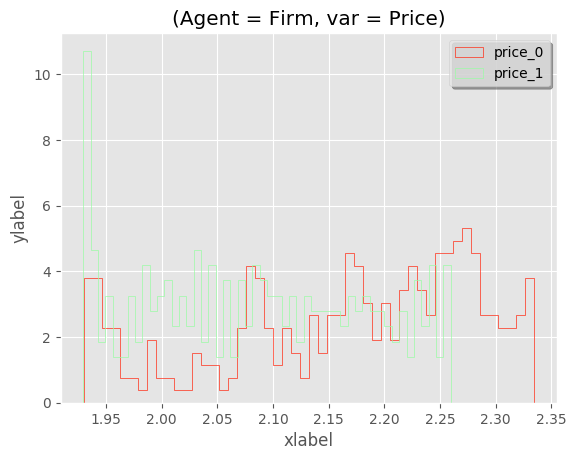
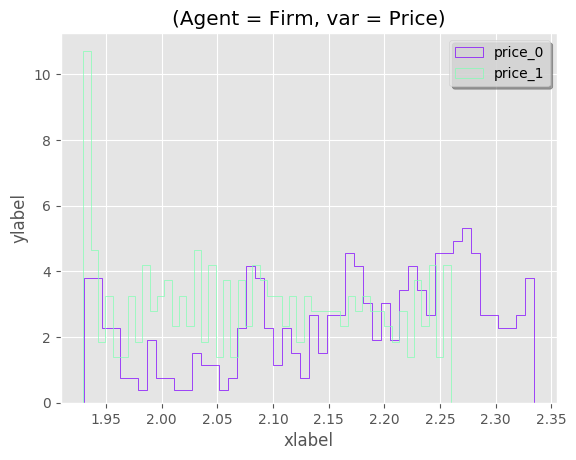
Fixed random colored plots

diff --git a/src/visualisation_scripts/plots.py b/src/visualisation_scripts/plots.py
@@ -105,17 +105,15 @@ class Timeseries(A):
                         for l in range(0, len(D), self.__N):
                             y.append(np.array(D[l:l+self.__N]))
                         x = np.arange(1, self.__N+1)
+                        # edit colormap here
                         #colors = iter(cm.rainbow(np.random.uniform(0, 1, size = len(D)//self.__N)))
-                        #colors = iter(cm.rainbow(np.array([i/len(minor_index)])))
                         size = len(D)//self.__N
                         a = np.empty(shape=size,)
                         for s in range(size):
                             a[s] = i/len(minor_index)
-                        print("First a: ", a)
-                        print(np.random.uniform(0, 1, size = len(D)//self.__N))
+                        #print("First a: ", a)
+                        #print(np.random.uniform(0, 1, size = len(D)//self.__N))
                         colors = iter(cm.rainbow(a))
-
-
                         for r in range(0, len(y)):
                             clr = next(colors)
                             self.plot_line(ax, x, y[r], legend_label[0]+'_run_'+str(r)+str(m),clr)
@@ -135,17 +133,15 @@ class Timeseries(A):
                         y2.append(np.array(col_B[i:i+self.__N]))
 
                     x = np.arange(1, self.__N+1)
-                    #colors = iter(cm.rainbow(np.random.uniform(0, 1, size = len(dframe)//self.__N)))
-
                     # edit colormap here
+                    #colors = iter(cm.rainbow(np.random.uniform(0, 1, size = len(dframe)//self.__N)))
                     size = len(dframe)//self.__N
                     a = np.empty(shape=size,)
                     for s in range(size):
                         a[s] = s/size
-                    print("Second a: ", a)
-                    print(np.random.uniform(0, 1, size = len(dframe)//self.__N))
+                    #print("Second a: ", a)
+                    #print(np.random.uniform(0, 1, size = len(dframe)//self.__N))
                     colors = iter(cm.rainbow(a))
-
 
                     for r in range(0, len(dframe)//self.__N):
                         clr = next(colors)
@@ -162,15 +158,14 @@ class Timeseries(A):
                     col_A = dframe[dframe.columns[0]]
                     for i in range(0, len(dframe), self.__N):
                         y1.append(np.array(col_A[i:i+self.__N]))
-                    #colors = iter(cm.rainbow(np.random.uniform(0, 1, size = len(dframe)//self.__N)))
-
                     # edit colormap here
+                    #colors = iter(cm.rainbow(np.random.uniform(0, 1, size = len(dframe)//self.__N)))
                     size = len(dframe)//self.__N
                     a = np.empty(shape=size,)
                     for s in range(size):
                         a[s] = s/size
-                    print("Third a: ", a)
-                    print(np.random.uniform(0, 1, size = len(dframe)//self.__N))
+                    #print("Third a: ", a)
+                    #print(np.random.uniform(0, 1, size = len(dframe)//self.__N))
                     colors = iter(cm.rainbow(a))
 
                     for r in range(0, len(dframe)//self.__N):
@@ -309,7 +304,7 @@ class Histogram():
             if self.__analysistype == A.agent:
                 minor_index = dframe.index.get_level_values('minor').unique()
                 fig, ax = plt.subplots()
-                for m in minor_index:
+                for i, m in enumerate(minor_index):
                     D = dframe.xs(int(m), level='minor')
                     if len(D.columns) == 2:  # TODO: this check done in class constructor, so no need
                         print("Quantile not possible for agent level analysis!")
@@ -318,10 +313,13 @@ class Histogram():
                         y = []
                         for l in range(0, len(D), self.__N):
                             y.append(np.array(D[l:l+self.__N]))
-                        colors = iter(cm.rainbow(np.random.uniform(0, 1, size = len(dframe)/self.__N)))
-
                         # edit colormap here
-
+                        #colors = iter(cm.rainbow(np.random.uniform(0, 1, size = len(dframe)/self.__N)))
+                        size = len(dframe)//self.__N
+                        a = np.empty(shape=size,)
+                        for s in range(size):
+                            a[s] = i/len(minor_index)
+                        colors = iter(cm.rainbow(a))
 
                         for r in range(0, len(y)):
                             clr = next(colors)
@@ -342,10 +340,13 @@ class Histogram():
                         for i in range(0, len(dframe), self.__N):
                             y1.append(np.array(col_A[i:i+self.__N]))
                             y2.append(np.array(col_B[i:i+self.__N]))
-                        colors = iter(cm.rainbow(np.random.uniform(0, 1, size = 4*len(dframe)/self.__N)))
-
                         # edit colormap here
-
+                        #colors = iter(cm.rainbow(np.random.uniform(0, 1, size = 4*len(dframe)/self.__N)))
+                        size = 4*len(dframe)/self.__N
+                        a = np.empty(shape=size,)
+                        for s in range(size):
+                            a[s] = s/size
+                        colors = iter(cm.rainbow(a))
 
                         for r in range(0, len(y1)): # TODO: y1 and y2 length must not be different, add a check
                             clr = next(colors)
@@ -360,10 +361,13 @@ class Histogram():
                         col_A = dframe[dframe.columns[0]]
                         for i in range(0, len(dframe), self.__N):
                             y1.append(np.array(col_A[i:i+self.__N]))
-                        colors = iter(cm.rainbow(np.random.uniform(0, 1, size = len(dframe)//self.__N)))
-
                         # edit colormap here
-
+                        #colors = iter(cm.rainbow(np.random.uniform(0, 1, size = len(dframe)//self.__N)))
+                        size = len(dframe)//self.__N
+                        a = np.empty(shape=size,)
+                        for s in range(size):
+                            a[s] = s/size
+                        colors = iter(cm.rainbow(a))
 
                         for r in range(0, len(dframe)//self.__N):
                             clr = next(colors)
@@ -378,10 +382,13 @@ class Histogram():
                     if len(dframe.columns) == 2:   ################TODO: two option not needed because when summary full, no sustom quantile possible
                         col_A = dframe[dframe.columns[0]]
                         col_B = dframe[dframe.columns[1]]
-                        colors = iter(cm.rainbow(np.random.uniform(0, 1, size = 4)))
-
                         # edit colormap here
-
+                        #colors = iter(cm.rainbow(np.random.uniform(0, 1, size = 4)))
+                        size = 4
+                        a = np.empty(shape=size,)
+                        for s in range(size):
+                            a[s] = s/size
+                        colors = iter(cm.rainbow(a))
 
                         clr = next(colors)
                         self.plot_histogram(ax, col_A, legend_label[0], clr, self.__P.bins(self.idx))
@@ -392,10 +399,10 @@ class Histogram():
                         plt.close()
                     else:
                         col_A = dframe[dframe.columns[0]]
-                        colors = iter(cm.rainbow(np.random.uniform(0, 1, size = 1)))
+                        #colors = iter(cm.rainbow(np.random.uniform(0, 1, size = 1)))
 
                         # edit colormap here
-
+                        colors = iter(cm.rainbow(np.array([0.0]))) #0.0:blue 1.0:red
 
                         clr = next(colors)
                         self.plot_histogram(ax, col_A, legend_label[0], clr, self.__P.bins(self.idx))
@@ -433,10 +440,13 @@ class Histogram():
                         sys.exit(1)
                     else:
                         count = 0
-                        colors = iter(cm.rainbow(np.random.uniform(0, 1, size = len(dframe)//self.__N)))
-
                         # edit colormap here
-
+                        #colors = iter(cm.rainbow(np.random.uniform(0, 1, size = len(dframe)//self.__N)))
+                        size = len(dframe)//self.__N
+                        a = np.empty(shape=size,)
+                        for s in range(size):
+                            a[s] = s/size
+                        colors = iter(cm.rainbow(a))
 
                         for r in range(0,len(D),self.__N):
                             fig, ax = plt.subplots()
@@ -457,11 +467,13 @@ class Histogram():
                     for i in range(0, len(dframe), self.__N):
                         y1.append(np.array(col_A[i:i+self.__N]))
                         y2.append(np.array(col_B[i:i+self.__N]))
-
-                    colors = iter(cm.rainbow(np.random.uniform(0, 1, size = 4*len(dframe)//self.__N)))
-
                     # edit colormap here
-
+                    #colors = iter(cm.rainbow(np.random.uniform(0, 1, size = 4*len(dframe)//self.__N)))
+                    size = 4*len(dframe)//self.__N
+                    a = np.empty(shape=size,)
+                    for s in range(size):
+                        a[s] = s/size
+                    colors = iter(cm.rainbow(a))
 
                     for r in range(0, len(dframe)//self.__N):
                         fig, ax = plt.subplots()
@@ -477,10 +489,14 @@ class Histogram():
                     y =[]
                     for i in range(0,len(dframe),self.__N):
                         y.append(np.array(dframe[i:i+self.__N]))
-                    colors = iter(cm.rainbow(np.random.uniform(0, 1, size = len(dframe)/self.__N)))
 
                     # edit colormap here
-
+                    #colors = iter(cm.rainbow(np.random.uniform(0, 1, size = len(dframe)/self.__N)))
+                    size = len(dframe)/self.__N
+                    a = np.empty(shape=size,)
+                    for s in range(size):
+                        a[s] = s/size
+                    colors = iter(cm.rainbow(a))
 
                     for s in range(0, len(dframe)//self.__N):
                         fig, ax = plt.subplots()
@@ -553,11 +569,9 @@ class Scatterplot(A):
             if self.__analysistype == A.agent:
                 minor_index = dframe.index.get_level_values('minor').unique()
                 fig, ax = plt.subplots() # initialize figure
-                colors = iter(cm.rainbow(np.linspace(0, 1, len(dframe)//self.__N)))
 
                 # edit colormap here
-
-
+                colors = iter(cm.rainbow(np.linspace(0, 1, len(dframe)//self.__N)))
 
                 for m in minor_index:
                     D = dframe.xs(int(m), level='minor')
@@ -593,10 +607,9 @@ class Scatterplot(A):
                     for i in range(0, len(dframe), self.__N):
                         y1.append(np.array(col_A[i:i+self.__N]))
                         y2.append(np.array(col_B[i:i+self.__N]))
-                    colors = iter(cm.rainbow(np.linspace(0, 1, len(y1))))
 
                     # edit colormap here
-
+                    colors = iter(cm.rainbow(np.linspace(0, 1, len(y1))))
 
                     for r in range(0, len(dframe)//self.__N):
                         clr = next(colors)
@@ -612,10 +625,9 @@ class Scatterplot(A):
                         sys.exit (1)
                     col_A = dframe[dframe.columns[0]]
                     col_B = dframe[dframe.columns[1]]
-                    colors = iter(cm.rainbow(np.linspace(0, 1, 1)))
 
                     # edit colormap here
-
+                    colors = iter(cm.rainbow(np.linspace(0, 1, 1)))
 
                     clr = next(colors)
                     self.plot_scatterplot(ax, col_A, col_B, legend_label[0]+' vs '+legend_label[1], legend_label[0], legend_label[1], clr)
@@ -635,10 +647,9 @@ class Scatterplot(A):
 
             if self.__analysistype == A.agent:
                 minor_index = dframe.index.get_level_values('minor').unique()
-                colors = iter(cm.rainbow(np.linspace(0, 1, len(dframe)//self.__N)))
 
                 # edit colormap here
-
+                colors = iter(cm.rainbow(np.linspace(0, 1, len(dframe)//self.__N)))
 
                 for m in minor_index:
                     D = dframe.xs(int(m), level='minor')
@@ -672,10 +683,9 @@ class Scatterplot(A):
                 for i in range(0, len(dframe), self.__N):
                     y1.append(np.array(col_A[i:i+self.__N]))
                     y2.append(np.array(col_B[i:i+self.__N]))
-                colors = iter(cm.rainbow(np.linspace(0, 1, len(y1))))
 
                 # edit colormap here
-
+                colors = iter(cm.rainbow(np.linspace(0, 1, len(y1))))
 
                 for r in range(0, len(dframe)//self.__N):
                     fig, ax = plt.subplots()
@@ -756,39 +766,39 @@ class Boxplot(A):
         for col in range(0, len(self.__data.columns)):
             dframe = pd.DataFrame(self.__data[self.__data.columns[col]])
             fig, ax = plt.subplots()
-            if self.__analysistype == A.agent: # check done above, redundant, to remove
-                print("Boxplot not possible for agent-level analysis!")
-                sys.exit(1)
-            else:
-                col_A = dframe[dframe.columns[0]]
-                D = self.process_boxplot_data(col_A)
-                y = []
-                for i in range(0, len(D), self.__N):
-                    y.append(pd.DataFrame(D[i:i+self.__N]))
-                for r in range(0, len(D)//self.__N):
-                    self.plot_boxplot(ax, y[r], self.__data.columns[col])
+            #if self.__analysistype == A.agent: # check done above, redundant, to remove
+            #    print("Boxplot not possible for agent-level analysis!")
+            #    sys.exit(1)
+            #else:
+            col_A = dframe[dframe.columns[0]]
+            D = self.process_boxplot_data(col_A)
+            y = []
+            for i in range(0, len(D), self.__N):
+                y.append(pd.DataFrame(D[i:i+self.__N]))
+            for r in range(0, len(D)//self.__N):
+                self.plot_boxplot(ax, y[r], self.__data.columns[col])
 
-                plot_name = self.__P.plot_name(self.idx)
-                plt.savefig(self.outpath + '/' + plot_name[:-4] + "_" + str(self.__data.columns[col]) + ".png", bbox_inches='tight')
-                plt.close()
+            plot_name = self.__P.plot_name(self.idx)
+            plt.savefig(self.outpath + '/' + plot_name[:-4] + "_" + str(self.__data.columns[col]) + ".png", bbox_inches='tight')
+            plt.close()
 
     def many_output(self):
 
         for col in range(0, len(self.__data.columns)):
             dframe = pd.DataFrame(self.__data[self.__data.columns[col]])
-            if self.__analysistype == A.agent: # check done above, redundant, to remove
-                print("Boxplot not possible for agent-level analysis!")
-                sys.exit(1)
-            else:
-                col_A = dframe[dframe.columns[0]]
-                D = self.process_boxplot_data(col_A)
-                y =[]
-                for i in range(0,len(D),self.__N):
-                    y.append(pd.DataFrame(D[i:i+self.__N]))
-                for s in range(0, len(D)//self.__N):
-                    fig, ax = plt.subplots()
-                    self.plot_boxplot(ax, y[s], self.__data.columns[col])
+            #if self.__analysistype == A.agent: # check done above, redundant, to remove
+            #    print("Boxplot not possible for agent-level analysis!")
+            #    sys.exit(1)
+            #else:
+            col_A = dframe[dframe.columns[0]]
+            D = self.process_boxplot_data(col_A)
+            y =[]
+            for i in range(0,len(D),self.__N):
+                y.append(pd.DataFrame(D[i:i+self.__N]))
+            for s in range(0, len(D)//self.__N):
+                fig, ax = plt.subplots()
+                self.plot_boxplot(ax, y[s], self.__data.columns[col])
 
-                    plot_name = self.__P.plot_name(self.idx)
-                    plt.savefig(self.outpath + '/' + plot_name[:-4] + "_" + str(self.__data.columns[col]) + "_" + str(s) + ".png", bbox_inches='tight')
-                    plt.close()
+                plot_name = self.__P.plot_name(self.idx)
+                plt.savefig(self.outpath + '/' + plot_name[:-4] + "_" + str(self.__data.columns[col]) + "_" + str(s) + ".png", bbox_inches='tight')
+                plt.close()
